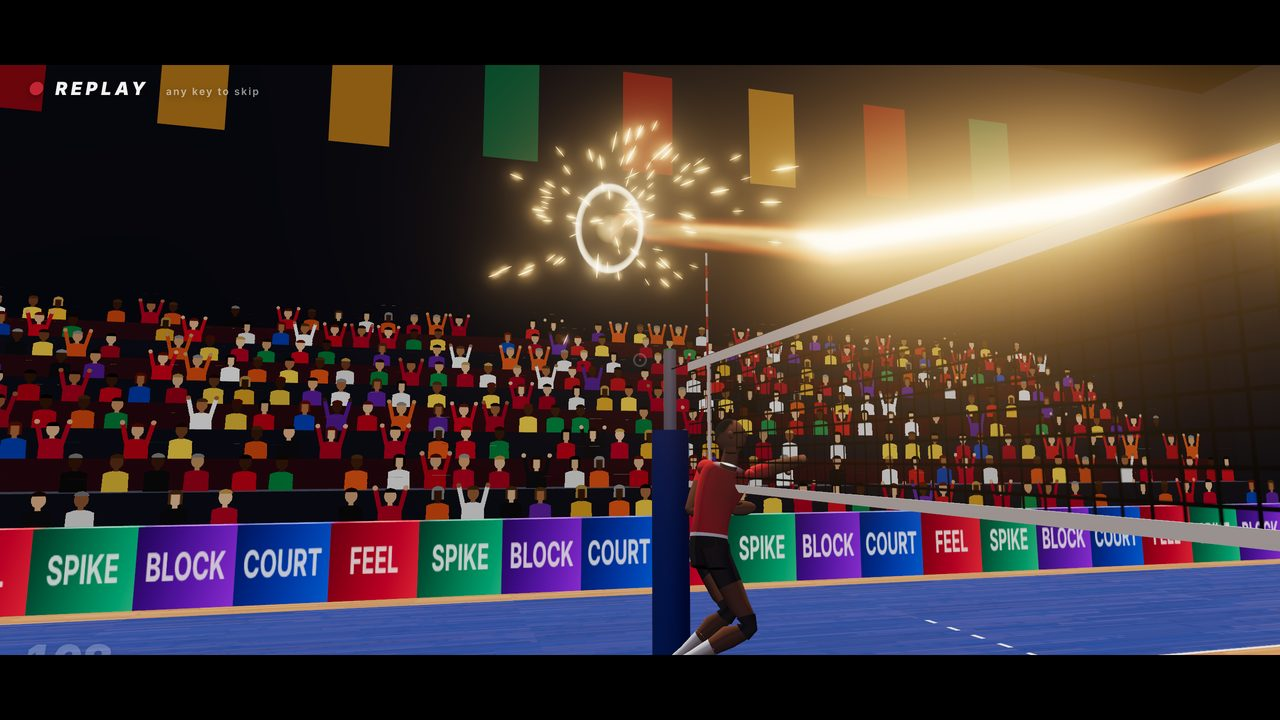
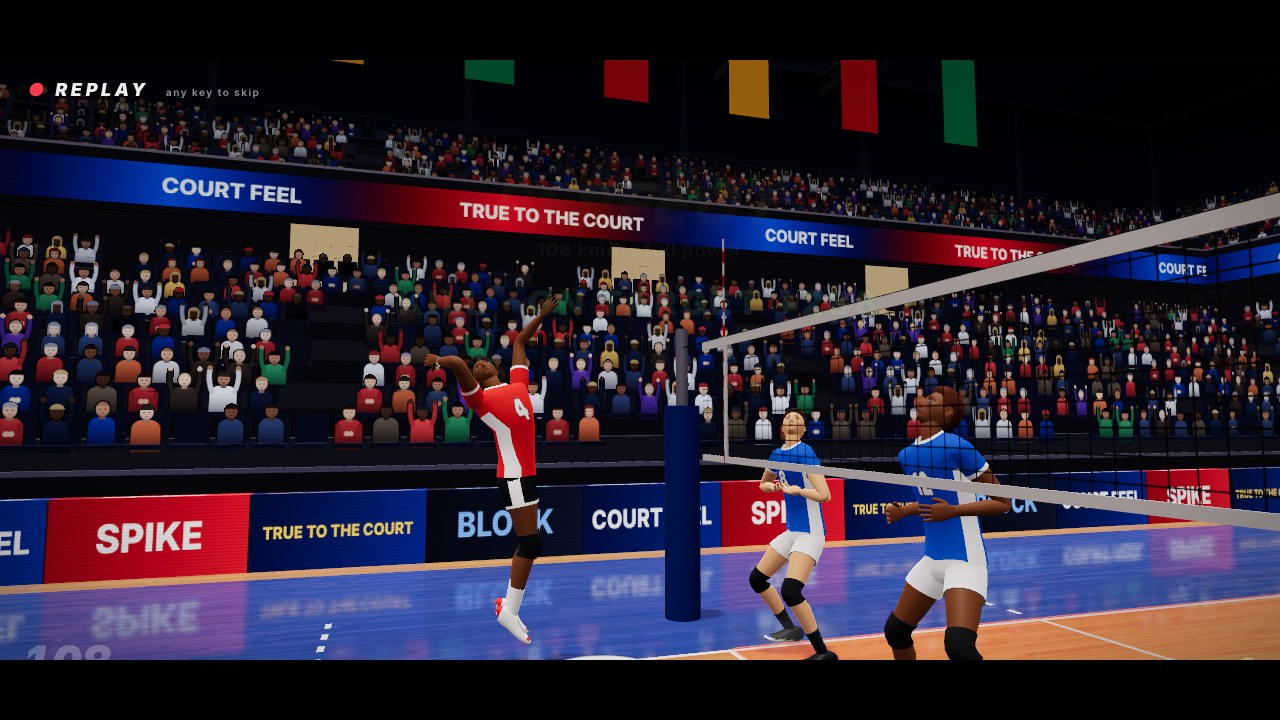
docs(screenshots): retaken with the new athletes and hall
Claude-Session: https://claude.ai/code/session_01UDovnHPgqAbYCnhsyhhXxa

diff --git a/README.md b/README.md
@@ -61,11 +61,11 @@ Real frames from the game: no paint-overs, no staged cameras.
 <table>
   <tr>
     <td width="50%" valign="top">
-      <img src="docs/screenshots/perfect-spike-first-person.jpg" alt="First person: the hitting arm has just come through the ball, sparks around it, PERFECT 108 km/h full power">
+      <img src="docs/screenshots/perfect-spike-first-person.jpg" alt="First person: the hitting arm coming through just after the ball has left, sparks around it, PERFECT 108 km/h full power">
       <b>From your own eyes.</b> A Perfect, full-power spike in first person: the arm comes through and the ball leaves at 108 km/h.
     </td>
     <td width="50%" valign="top">
-      <img src="docs/screenshots/broadcast-replay.jpg" alt="Letterboxed slow-motion replay from a broadcast angle: the hitter at the net, a shock ring and a fire trail on the ball">
+      <img src="docs/screenshots/broadcast-replay.jpg" alt="Letterboxed slow-motion replay from a broadcast angle: the hitter in the air at the net with the arm drawn back, the double block going up in front">
       <b>The replay.</b> Perfect spikes play back in slow motion from a broadcast camera. R replays your last attempt, misses included.
     </td>
   </tr>
@@ -75,7 +75,7 @@ Real frames from the game: no paint-overs, no staged cameras.
       <b>At the net.</b> Read the set, time the jump, press over. A stuff block, seen through the blocker's eyes.
     </td>
     <td width="50%" valign="top">
-      <img src="docs/screenshots/mini-rally-setter-call.jpg" alt="Mini Rally from behind the receivers: the setter's speech bubble reads GO! in system as the pass goes up">
+      <img src="docs/screenshots/mini-rally-setter-call.jpg" alt="Mini Rally from behind the receivers: the setter's speech bubble reads 1! in system (the quick) as the pass goes up">
       <b>The setter calls the pass.</b> 6 v 6 in your position. A second before the set, the setter calls the pass: GO! when it's on, HIGH! when it's out of system.
     </td>
   </tr>
@@ -502,6 +502,8 @@ contact rules do not know it is there.
   round the balcony, boards round the free zone, roof lamps, and a varnished
   floor that mirrors the players, the net and the boards. On a slow machine the
   game drops MSAA first and the floor mirror last (F3 shows the quality level).
+* **First person.** Your own arm dissolves where it passes close to the lens,
+  so the swing crosses the view without a cut-off sleeve in it.
 
 ## Tuning the feel
 
